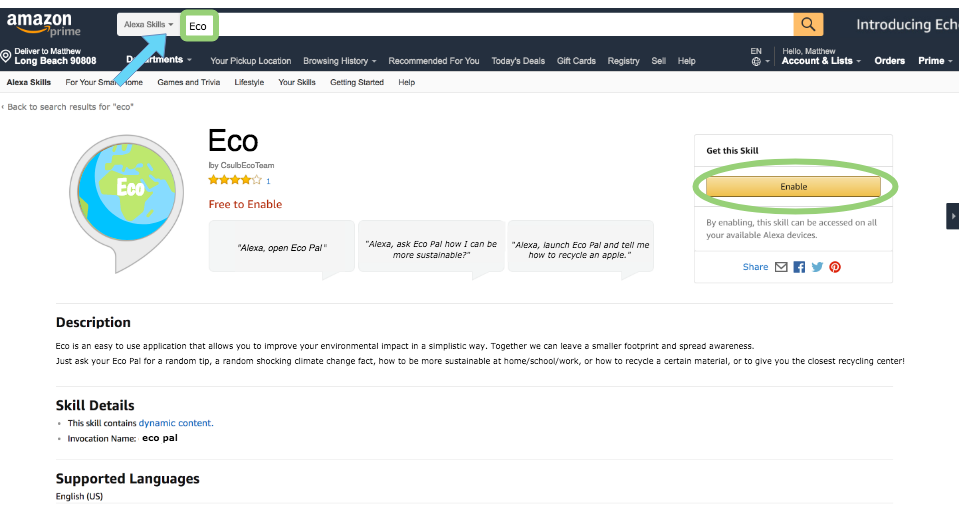
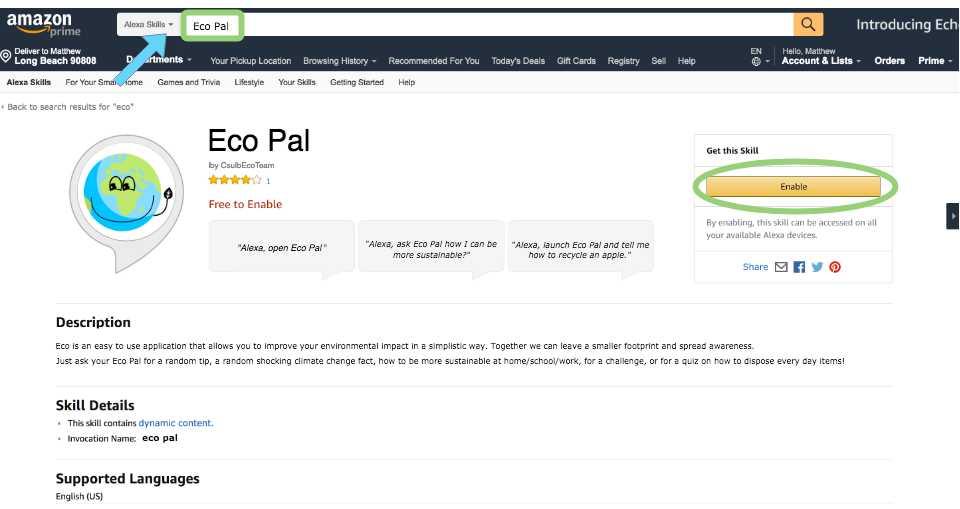
Changes to several pages.
Updated the developer guide to include information about our website. Also, changed images for the user manual page.

diff --git a/devGuide/index.html b/devGuide/index.html
@@ -117,24 +117,24 @@
               
                 <h1 id="ecos-developer-guide">Eco's Developer Guide</h1>
 <h2 id="installation">Installation</h2>
-<p>Want to work on and imporve Eco Pal? Well it can be done in a few easy steps! Eco itself is just an Amazon Alexa skill which is an Amazon Voice Service. Eco Pal has minimal dependencies that runs on Node.js JavaScript runtime. Eco uses a DynamoDB database on AWS Lambda function through Amazon's Web Services (AWS). To find out more about <a href="https://aws.amazon.com/lambda/?sc_channel=PS&amp;sc_campaign=pac_ps_q4&amp;sc_publisher=google&amp;sc_medium=lambda_b_pac_search&amp;sc_content=lambda_e&amp;sc_detail=amazon%20lambda&amp;sc_category=lambda&amp;sc_segment=webp&amp;sc_matchtype=e&amp;sc_country=US&amp;sc_geo=namer&amp;sc_outcome=pac&amp;s_kwcid=AL!4422!3!243293321733!e!!g!!amazon%20lambda&amp;ef_id=WuYewgAAAORkx5Vy:20180429193634:s">AWS Lambda</a> click the link. To get started using Eco Pal, follow the steps below. </p>
+<p>Want to work on and imporve Eco Pal? Well it can be done in a few easy steps! Eco Pal itself is just an Amazon Alexa skill which is an Amazon Voice Service. Eco Pal has minimal dependencies that runs on Node.js JavaScript runtime. Eco Pal uses a DynamoDB database on AWS Lambda function through Amazon's Web Services (AWS). To find out more about <a href="https://aws.amazon.com/lambda/?sc_channel=PS&amp;sc_campaign=pac_ps_q4&amp;sc_publisher=google&amp;sc_medium=lambda_b_pac_search&amp;sc_content=lambda_e&amp;sc_detail=amazon%20lambda&amp;sc_category=lambda&amp;sc_segment=webp&amp;sc_matchtype=e&amp;sc_country=US&amp;sc_geo=namer&amp;sc_outcome=pac&amp;s_kwcid=AL!4422!3!243293321733!e!!g!!amazon%20lambda&amp;ef_id=WuYewgAAAORkx5Vy:20180429193634:s">AWS Lambda</a> click the link. To get started on improving Eco Pal, follow the steps below. </p>
 <h3 id="installing-the-technology-stack">Installing the Technology Stack</h3>
 <img src = "../img/technologies.png" alt = "technologies" >
 <p>Before you can start working on our project, make sure you have the following:</p>
 <blockquote>
 <ul>
 <li>An <a href="https://www.amazon.com/ap/signin?clientContext=131-8473097-6767236&amp;openid.return_to=https%3A%2F%2Fdeveloper.amazon.com%2Falexa&amp;openid.identity=http%3A%2F%2Fspecs.openid.net%2Fauth%2F2.0%2Fidentifier_select&amp;openid.assoc_handle=mas_dev_portal&amp;openid.mode=checkid_setup&amp;marketPlaceId=ATVPDKIKX0DER&amp;openid.claimed_id=http%3A%2F%2Fspecs.openid.net%2Fauth%2F2.0%2Fidentifier_select&amp;pageId=amzn_developer_portal&amp;openid.ns=http%3A%2F%2Fspecs.openid.net%2Fauth%2F2.0&amp;siteState=clientContext%3D140-6575479-9871210%2CsourceUrl%3Dhttps%253A%252F%252Fdeveloper.amazon.com%252Falexa%2Csignature%3Dnull&amp;language=en_US">Amazon Developer</a> account which allows access to a suite of tools and services to enable a developer to build, test, and sell applications/games in the Amazon Appstore. </li>
-<li>An Amazon Web Service <a href="https://portal.aws.amazon.com/billing/signup?nc2=h_ct&amp;redirect_url=https%3A%2F%2Faws.amazon.com%2Fregistration-confirmation#/start">(AWS)</a> account. This account does not have to be the same as your Amazon account, if you already have one. </li>
-<li>A Git account. </li>
+<li>An Amazon Web Service <a href="https://portal.aws.amazon.com/billing/signup?nc2=h_ct&amp;redirect_url=https%3A%2F%2Faws.amazon.com%2Fregistration-confirmation#/start">(AWS)</a> account. This account does not have to be the same as your Amazon account, if you already have one. This is where you'll have acess to the Lambda funciton, DynamoDB, S3, and a series of other tools.</li>
+<li>A <a href="https://github.com/join">GitHub</a> account.</li>
 <li>The Amazon Alexa app which you can download via your mobile device's app store for the purpose of connecting your Amazon Developer account to your Alexa compatible device. </li>
 </ul>
 </blockquote>
 <p><em>Please note that while you can test your interaction through the Amazon developer console, <strong>it does not</strong> test for every interaction so having an Alexa comptabile device is recommended.</em></p>
 <h4 id="getting-the-code">Getting the Code</h4>
-<p>Hopefully Eco Pal is set up as expected and by this point you can get the code by typing the following commands in the terminal:</p>
+<p>In Eco Pal's github repository, you can find all the code for the Alexa skill and the website. At this point, you can get the code by typing the following commands in the terminal:</p>
 <blockquote>
 <p><code>git clone https://github.com/skl1m/ecopal.git</code> - Download the code.</p>
-<p><code>cd ecopal</code> - Change directories, going into the app folder</p>
+<p><code>cd ecopal</code> - Change directories, going into the folder where all the code is.</p>
 <p><code>npm install</code> - Install the dependencies</p>
 </blockquote>
 <h4 id="running-the-skill">Running the Skill</h4>
@@ -143,14 +143,22 @@
 <p>Start by <a href="https://developer.amazon.com/alexa/console/ask/create-new-skill">creating a new skill</a> with a different name than Eco Pal. Choose to make a custom skill.</p>
 <p>Once you are taken to the console page which looks like this: then follow the skill builder checklist and complete each steps to be able to test the skill until you've reached step four (the endpoint). </p>
 <p>Before completing the endpoint (step four), head over to your <a href="https://aws.amazon.com/">AWS account</a> and create a lambda function.</p>
-<blockquote>
 <p>Follow these <a href="https://developer.amazon.com/docs/custom-skills/host-a-custom-skill-as-an-aws-lambda-function.html">steps</a> to create a lambda function for an Alexa skill.</p>
-</blockquote>
-<p>In the lambda function for your skill, after connecting your skill to the function and adding your ARN of your lambda function into your endpoint in the Amazon Developer console, you can begin to program in the lamda function and test in the developer console or through your Alexa device.</p>
+<p>In the lambda function for your skill, after connecting your skill to the function and adding your ARN of your lambda function into your endpoint in the Amazon Developer console, you can begin to program in the lamda function or download AWS CLI and test in the developer console or through your Alexa device.</p>
 <p>To set up the Alexa device, like the <a href="https://www.amazon.com/gp/help/customer/display.html/ref=hp_ab_link_n_201994280?ie=UTF8&amp;nodeId=201994280&amp;qid=1525059271&amp;sr=13-2-acs">Echo Dot</a>, follow the link. </p>
 <p>Now you can make changes to our project or create your own skill using our project as a reference!</p>
+<p>To figure out how to get started with DynamoDB please follow the steps in this <a href="https://docs.aws.amazon.com/amazondynamodb/latest/developerguide/GettingStarted.html">link</a>.</p>
 </blockquote>
-<p><em>Note:</em> At this moment, we have not looked into DynamoDB to store our data. We are just storing small amounts of information with the help of data structures. Consequently, implementing DynamoDB may change the steps of our installation guide.</p>
+<h4 id="running-the-website">Running the Website</h4>
+<p>Eco Pal's wesbite is a serveless website. Amazon S3 hosts static web resources including HTML, CSS, JavaScript, and image files which are loaded in the user's browser. Amazon DynamoDB provides a persistence layer where data can be stored by the API's Lambda function. The website uses a RESTful API where JavaScript executed in the browser sends and receives data from a public backend API built using Lambda and API Gateway. If you are interested in learning how to make a serverless website through Amazon Web Services, you can follow these few steps:</p>
+<br>
+<img src = "../img/websiteArchitecture.png" alt = "website-architecture" >
+<blockquote>
+  <p> Create the CSS, HTML, and JavaScript files and upload them into Amazon's Simple Storage Service <a href = "https://aws.amazon.com/s3/">(Amazon S3)</a>. 
+  <p>Create a lambda function and connect that function to API Gateway and DynamoDB. Make sure that the API Gateway is able to read data from the database. If successful, download the generated files from API gateway.</p>
+  <p>In the S3 bucket, switch to a static web hosting option and  host the website as public. Then set the homepage file as the landing page. The next step within the S3 bucket is we allow cross region permission and API Gateway permission.</p>
+  <p>Link the S3 bucket to a domain.</p>
+</blockquote>
 <h2 id="what-to-expect">What to expect?</h2>
 <p>Currently, our system is almost ready for deployment. There's just a few functionalities we are working on fixing. The Alexa skill code is implemented in  Node.js using ES6 Javascript syntax. We currently use DynamoDB to store all the data for our skill as we are incorporating the <a href="http://zerowaste.ucsf.edu/index.php">UCSF recycling database</a> information. We currently have a paired website for our users to get information regarding Eco Pal. To find more information about that look below.</p>
 <h2 id="want-to-contribute">Want to contribute?</h2>

diff --git a/userManual/index.html b/userManual/index.html
@@ -116,7 +116,7 @@
             <div class="section">
               
                 <h1 id="ecos-user-manual">Eco Pal's User Manual</h1>
-<p>We want to make it as easy as possible for you to have access to reliable information regarding sustainability. Whether that means you're at home cooking and you feel like you'd like to know how you could improve your environmental footprint or you're not sure how to recycle a car battery. If you need help getting started with our Alexa skill, you're in the right place. This guide will walk you through gaining access to Eco and reducing your environmental impact.</p>
+<p>We want to make it as easy as possible for you to have access to reliable information regarding sustainability. Whether that means you're at home cooking and you feel like you'd like to know how you could improve your environmental footprint or you're not sure how to recycle a car battery. If you need help getting started with our Alexa skill, you're in the right place. This guide will walk you through gaining access to Eco Pal and reducing your environmental impact.</p>
 <img src = "../img/amazonEcho.jpg" alt = "Kids and Echo" >
 <h2 id="how-to-install-eco">How to Install Eco Pal</h2>
 <h3 id="1-have-an-amazon-account">1. Have an Amazon account.</h3>
@@ -155,17 +155,13 @@
 </blockquote>
 </blockquote>
 </blockquote>
-<figure>
-<img src = "https://media.giphy.com/media/1n3kxAnBqIic9qssc1/giphy.gif" alt = "Eco Pal Skill Page Step 1" >
-<fig-caption><small><br>This is the first step of enabling Eco Pal through Amazon's website.</small></fig-caption>
-</figure>
 <br>
 <br>
 <figure>
 <img src = "../img/skillPageEx.png" alt = "Eco Pal Skill Page Step 2" >
-<figure-caption><small>This is the second step of enabling Eco through Amazon's website.</small></figure-caption>
+<figure-caption><small><i>Note</i>: This image is a mock, as we cannot launch on the Amazon skill page until the skill is completely ready.</small></figure-caption>
 </figure>
-<small><i>Note</i>: This image is a mock, as we cannot launch on the Amazon skill page until the skill is completely ready.</small>
+
 <br>
 <br>
 <br>
@@ -200,9 +196,9 @@
   <blockquote>
     <p>Just like people can create applications for mobile devices or tablets, people can create a skill (an application) for Alexa to make your user experience more entertaining and personable.</p>
   </blockquote>
-     <li><b>Can I review my previous interactions with Eco?</b></li>
+     <li><b>Can I review my previous interactions with Eco Pal?</b></li>
      <blockquote>
-  <p>Yes, you can review voice interactions with Alexa by visiting History in Settings in the Alexa App. Your interactions are grouped by question or request. Tap an entry to see more detail, provide feedback, or listen to audio sent to the Cloud for that entry by tapping the play icon. Sometimes Alexa may not understand you perfectly, and the translations you see in History may not always reflect exactly what you said (for example, they may be inaccurate or incomplete).</p>
+  <p>Yes, you can review voice interactions with Alexa by visiting "History" in Settings in the Alexa App. Your interactions are grouped by question or request. Tap an entry to see more detail, provide feedback, or listen to audio sent to the Cloud for that entry by tapping the play icon. Sometimes Alexa may not understand you perfectly, and the translations you see in History may not always reflect exactly what you said (for example, they may be inaccurate or incomplete).</p>
         </blockquote>
      <li><b>I feel like this is an invasion of my privacy. How can I delete my previous interactions with Eco Pal?</b></li>
   <blockquote>
